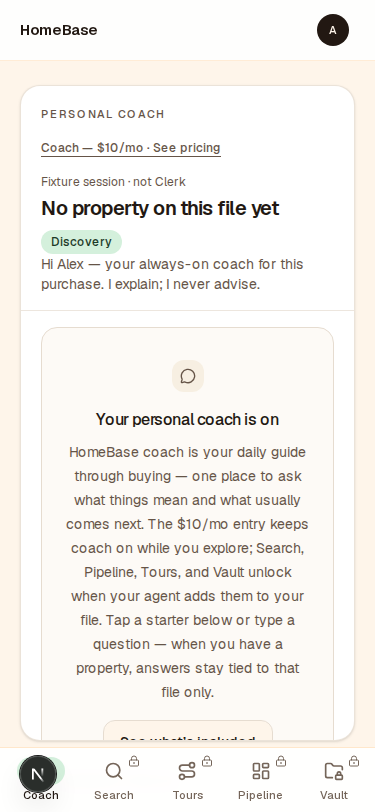
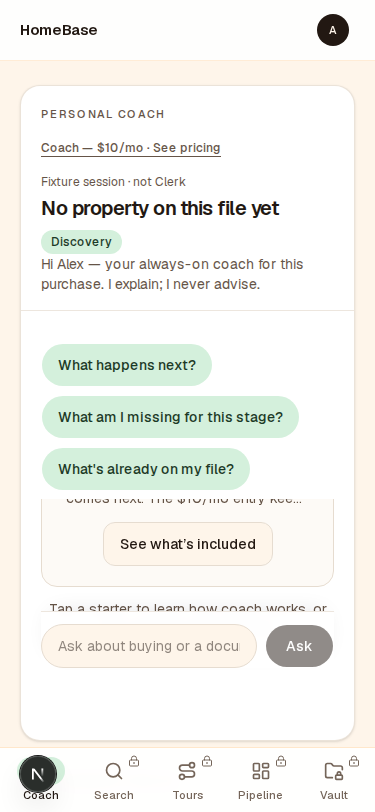
fix(design): distinct coach-first-session proof shots at 375
Pin first-session starter chips above the mobile scroll region so all
three explain-only starters and the Ask bar fit the fold. Move the empty
state into the scroll area with compact mobile styling.

Regenerate proof PNGs and assert sha256 differs in the proof e2e spec.

diff --git a/src/components/concierge-chat.tsx b/src/components/concierge-chat.tsx
@@ -1,6 +1,6 @@
 "use client";
 
-import { useState } from "react";
+import { useState, type ReactNode } from "react";
 
 import { askSeedConcierge } from "@/app/actions/concierge";
 import { ConciergeAnswerView } from "@/components/concierge-answer";
@@ -28,11 +28,17 @@ export function ConciergeChat({
   starters = CONCIERGE_STARTERS,
   idleHint = "Pick a question above or ask about this transaction. I explain what is on this file; I do not advise.",
   questionPlaceholder = "Ask about this transaction",
+  /** Renders inside the scroll region (e.g. first-session empty state). */
+  scrollIntro,
+  /** Keep starters fixed above the scroll area on 375 so the fold shows chips + Ask. */
+  pinStartersAboveScrollOnMobile = false,
 }: {
   className?: string;
   starters?: readonly string[];
   idleHint?: string;
   questionPlaceholder?: string;
+  scrollIntro?: ReactNode;
+  pinStartersAboveScrollOnMobile?: boolean;
 }) {
   const [question, setQuestion] = useState("");
   const [asked, setAsked] = useState<string | null>(null);
@@ -55,38 +61,56 @@ export function ConciergeChat({
     setBusy(false);
   }
 
+  const starterChips = (
+    <div
+      aria-label="Suggested questions"
+      className="-mx-5 flex flex-wrap gap-2 px-5 pb-1 md:mx-0"
+    >
+      {starters.map((starter) => (
+        <Button
+          key={starter}
+          type="button"
+          variant="secondary"
+          className="h-auto min-h-11 w-max max-w-[min(17.5rem,calc(100vw-3rem))] shrink-0 rounded-full bg-sage px-4 py-2 text-left text-sm whitespace-normal text-sage-foreground hover:bg-sage/80"
+          disabled={busy}
+          onClick={() => {
+            setQuestion(starter);
+            void submit(starter);
+          }}
+        >
+          {starter}
+        </Button>
+      ))}
+    </div>
+  );
+
   return (
     <section
       data-testid="concierge"
       aria-label="Transaction concierge"
       className={cn("flex min-h-0 flex-col", className)}
     >
+      {pinStartersAboveScrollOnMobile ? (
+        <div className="shrink-0 pt-4 pb-1 max-md:block md:hidden">
+          {starterChips}
+        </div>
+      ) : null}
       <div
         className={cn(
           "flex min-h-0 flex-1 flex-col gap-3 overflow-y-auto py-4",
           "max-md:pb-[var(--coach-compose-inset)]",
+          pinStartersAboveScrollOnMobile && "max-md:pt-0",
         )}
       >
         <div
-          aria-label="Suggested questions"
-          className="-mx-5 flex flex-wrap gap-2 px-5 pb-1 md:mx-0"
+          className={cn(
+            pinStartersAboveScrollOnMobile && "max-md:hidden",
+          )}
         >
-          {starters.map((starter) => (
-            <Button
-              key={starter}
-              type="button"
-              variant="secondary"
-              className="h-auto min-h-11 w-max max-w-[min(17.5rem,calc(100vw-3rem))] shrink-0 rounded-full bg-sage px-4 py-2 text-left text-sm whitespace-normal text-sage-foreground hover:bg-sage/80"
-              disabled={busy}
-              onClick={() => {
-                setQuestion(starter);
-                void submit(starter);
-              }}
-            >
-              {starter}
-            </Button>
-          ))}
+          {starterChips}
         </div>
+
+        {scrollIntro ? <div className="shrink-0">{scrollIntro}</div> : null}
 
         <div aria-live="polite" className="flex min-h-0 flex-1 flex-col gap-3">
           {asked === null ? (

diff --git a/e2e/coach-first-session.spec.ts b/e2e/coach-first-session.spec.ts
@@ -1,3 +1,6 @@
+import { createHash } from "node:crypto";
+import { readFile } from "node:fs/promises";
+
 import { expect, test } from "@playwright/test";
 
 const FIRST_SESSION_STARTERS = [
@@ -16,6 +19,12 @@ async function signInAlexDiscoveryEmpty(page: import("@playwright/test").Page) {
   await page.goto("/test-login");
   await page.getByTestId("sign-in-alex-discovery-empty").getByRole("button").click();
   await expect(page).toHaveURL(/\/coach$/);
+}
+
+function conciergeScrollRegion(page: import("@playwright/test").Page) {
+  return page
+    .locator('[data-testid="concierge"] > div.overflow-y-auto')
+    .first();
 }
 
 test("empty Discovery coach shows empty state and three starters @375", async ({
@@ -49,7 +58,7 @@ test("first-session chips clear sticky Ask at scroll end @375", async ({
 }) => {
   await signInAlexDiscoveryEmpty(page);
 
-  const scroll = page.locator('[data-testid="concierge"] > div').first();
+  const scroll = conciergeScrollRegion(page);
   await scroll.evaluate((el) => {
     el.scrollTop = el.scrollHeight;
   });
@@ -71,20 +80,40 @@ test("first-session chips clear sticky Ask at scroll end @375", async ({
 
 test("coach first-session proof screenshots @375", async ({ page }) => {
   await signInAlexDiscoveryEmpty(page);
-  await expect(page.getByTestId("coach-first-session-empty")).toBeVisible();
+
+  const startersPath = "proof/coach-first-session/empty-coach-three-starters-375.png";
+  const scrollEndPath =
+    "proof/coach-first-session/chips-clear-above-ask-375.png";
+
+  const scroll = conciergeScrollRegion(page);
+  await scroll.evaluate((el) => {
+    el.scrollTop = 0;
+  });
+
+  for (const label of FIRST_SESSION_STARTERS) {
+    await expect(page.getByRole("button", { name: label })).toBeVisible();
+  }
 
   await page.screenshot({
-    path: "proof/coach-first-session/empty-coach-three-starters-375.png",
+    path: startersPath,
     fullPage: false,
   });
 
-  const scroll = page.locator('[data-testid="concierge"] > div').first();
   await scroll.evaluate((el) => {
     el.scrollTop = el.scrollHeight;
   });
+  await expect(page.getByTestId("concierge-compose")).toBeVisible();
 
   await page.screenshot({
-    path: "proof/coach-first-session/chips-clear-above-ask-375.png",
+    path: scrollEndPath,
     fullPage: false,
   });
+
+  const [startersPng, scrollEndPng] = await Promise.all([
+    readFile(startersPath),
+    readFile(scrollEndPath),
+  ]);
+  const startersHash = createHash("sha256").update(startersPng).digest("hex");
+  const scrollEndHash = createHash("sha256").update(scrollEndPng).digest("hex");
+  expect(startersHash).not.toEqual(scrollEndHash);
 });

diff --git a/src/components/coach-home.tsx b/src/components/coach-home.tsx
@@ -77,32 +77,35 @@ export function CoachHome({
             </span>
           </p>
         </header>
-        {firstSession ? (
-          <div className="shrink-0 px-5 pt-4">
-            <EmptyState
-              testId="coach-first-session-empty"
-              icon={MessageCircle}
-              title="Your personal coach is on"
-              description={
-                <>
-                  HomeBase coach is your daily guide through buying — one place
-                  to ask what things mean and what usually comes next. The{" "}
-                  {COACH_ENTRY_PRICE_LABEL} entry keeps coach on while you
-                  explore; Search, Pipeline, Tours, and Vault unlock when your
-                  agent adds them to your file. Tap a starter below or type a
-                  question — when you have a property, answers stay tied to
-                  that file only.
-                </>
-              }
-              action={{ href: "/pricing", label: "See what’s included" }}
-              className="border-solid bg-muted/30"
-            />
-          </div>
-        ) : null}
         <ConciergeChat
           className="min-h-0 flex-1 px-5 pt-4 pb-5"
           starters={
             firstSession ? COACH_FIRST_SESSION_STARTERS : undefined
+          }
+          pinStartersAboveScrollOnMobile={firstSession}
+          scrollIntro={
+            firstSession
+              ? (
+                  <EmptyState
+                    testId="coach-first-session-empty"
+                    icon={MessageCircle}
+                    title="Your personal coach is on"
+                    description={
+                      <>
+                        HomeBase coach is your daily guide through buying — one
+                        place to ask what things mean and what usually comes
+                        next. The {COACH_ENTRY_PRICE_LABEL} entry keeps coach
+                        on while you explore; Search, Pipeline, Tours, and Vault
+                        unlock when your agent adds them to your file. Tap a
+                        starter above or type a question — when you have a
+                        property, answers stay tied to that file only.
+                      </>
+                    }
+                    action={{ href: "/pricing", label: "See what’s included" }}
+                    className="border-solid bg-muted/30 max-md:gap-3 max-md:py-5 max-md:[&_[data-slot=empty-description]]:line-clamp-4"
+                  />
+                )
+              : undefined
           }
           idleHint={
             firstSession
